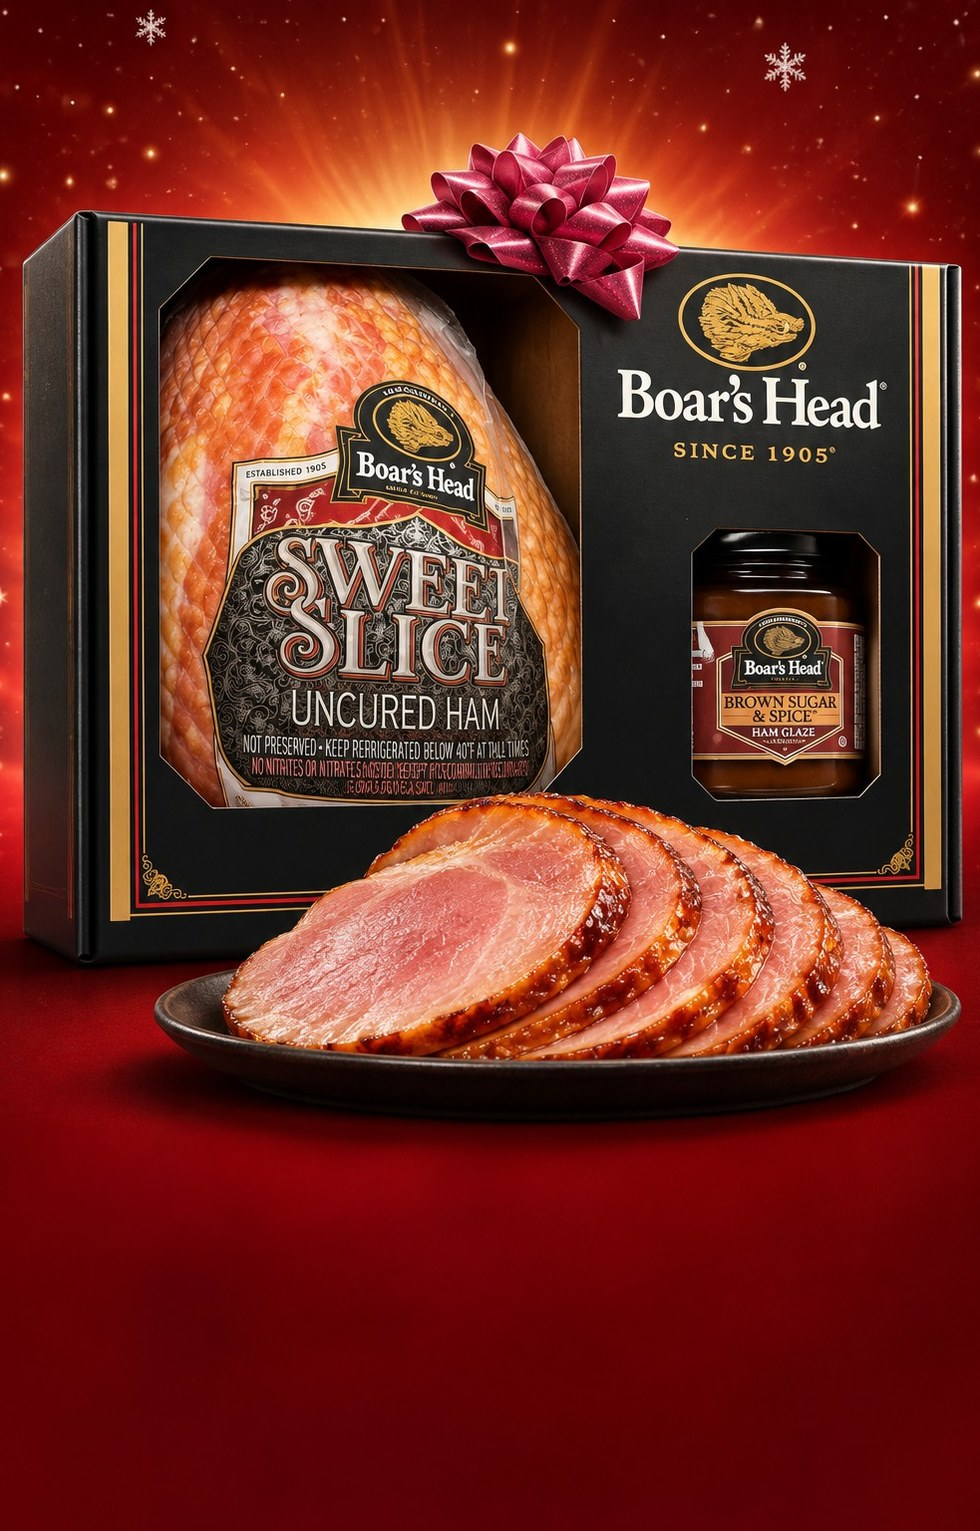
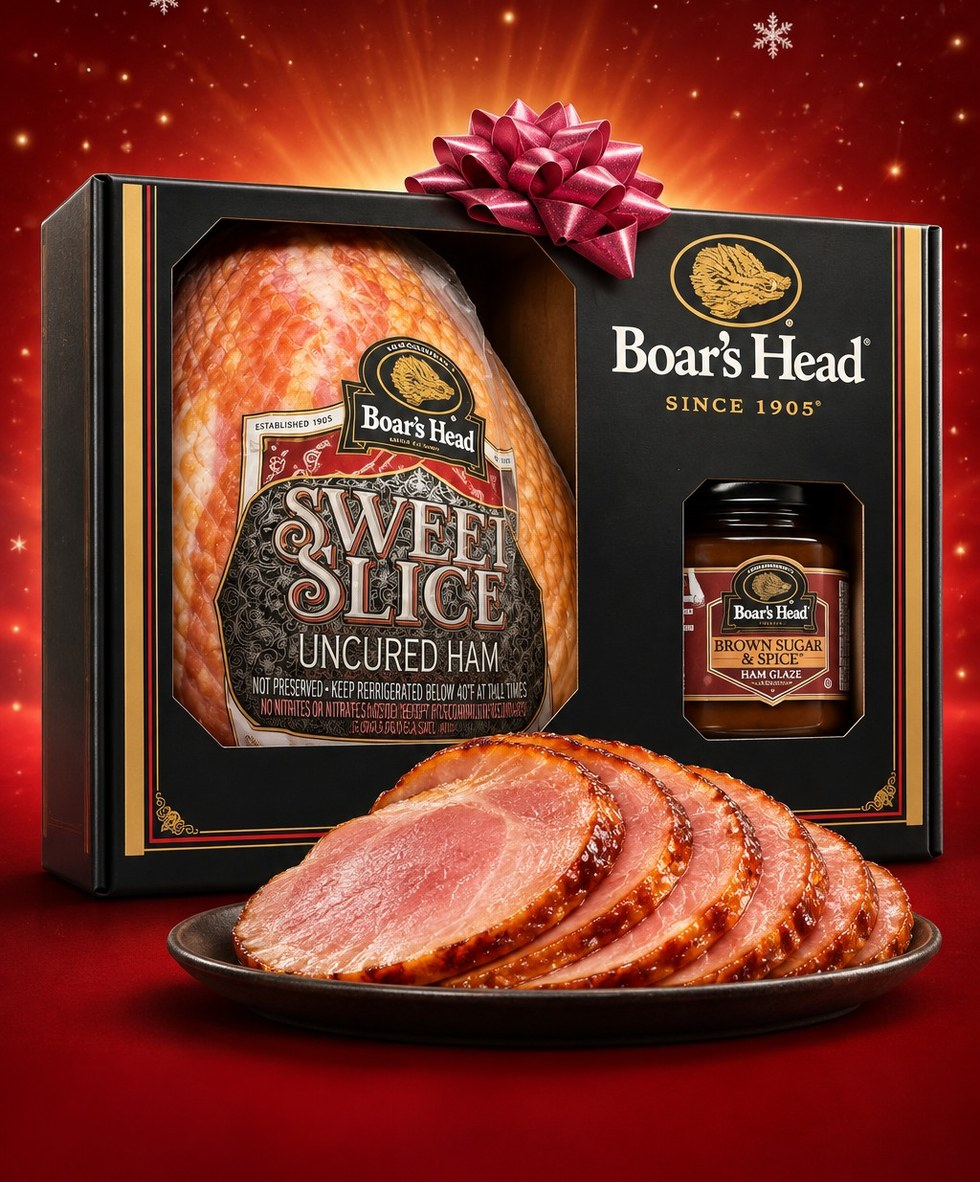
Ham hero: recrop to the window clip shape (5:6) so bow, box and slices all show
Claude-Session: https://claude.ai/code/session_01Hn3nXuy95Df4hm2h7Xa1Lq

diff --git a/boards/v1/menu.html b/boards/v1/menu.html
@@ -530,7 +530,7 @@
     // No price until Ludwig's gives one. Plays at the top of every loop.
     { id: "p-bh-holiday-ham", tv: 2, type: "signature", priority: 1, badge: "Holiday", eyebrow: "Boar's Head Gift Box",
       title: "The Holiday Ham", desc: "Sweet Slice ham + Brown Sugar & Spice glaze. Fully cooked, heat & serve.",
-      photo: "bh-holiday-ham.jpg", focus: "50% 42%" },
+      photo: "bh-holiday-ham.jpg", focus: "50% 50%" },
     { id: "p-event-grazing", tv: 2, type: "signature", eyebrow: "Catering", title: "Event Ready",
       desc: "Order a spread for your next party", photo: "event-grazing.jpg", focus: "50% 45%" },     // IG DejiZehmDTZ
     // Videos
